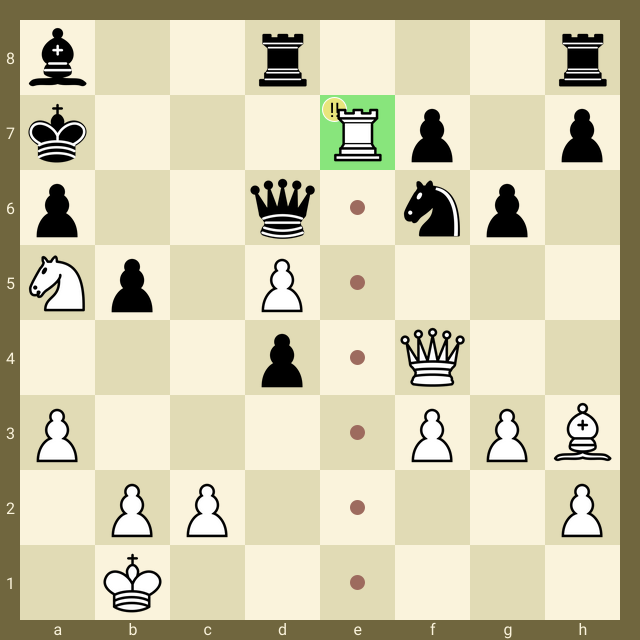
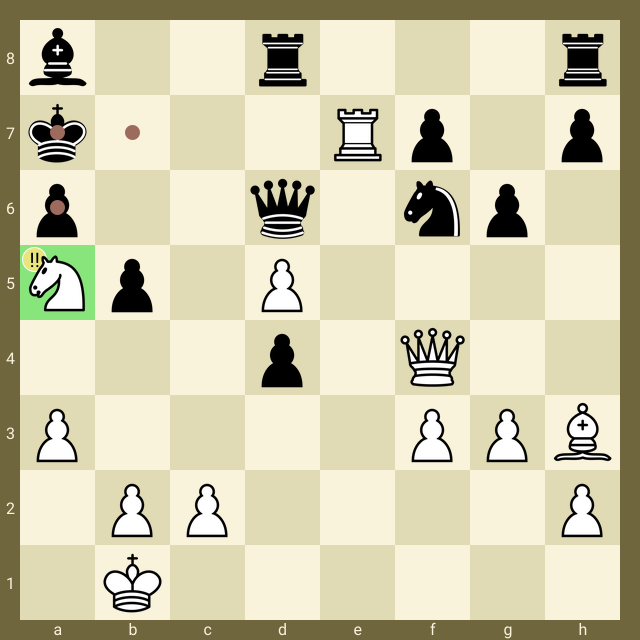
Removed arrow

diff --git a/rendererMoves.go b/rendererMoves.go
@@ -31,60 +31,25 @@ func (r *rendererMoves) renderMove(c *gg.Context, move Move) {
 	c.SetRGBA(toRGBA(style.Color))
 	if dx == 0 || dy == 0 || abs(dx) == abs(dy) {
 		// Render pawn, rook, bishop, king and queen moves
-		r.renderStraightMoves(c, dx, dy, x, y, style)
-	} else {
-		// Render knight moves (and illegal moves)
-		r.renderOtherMoves(c, dx, dy, x, y, style)
-	}
-}
-
-func (r *rendererMoves) renderStraightMoves(c *gg.Context, dx int, dy int, x int, y int, style *MoveStyle) {
-	switch style.Type {
-	case MoveTypeDots:
 		// Rook type move or bishop type move
 		d := max(abs(dx), abs(dy))
-		r.renderDottedMove(c, &x, &y, style, d, sgn(dx), sgn(dy))
-	case MoveTypeArrow:
-		// Not implemented yet
-	}
-}
-
-func (r *rendererMoves) renderOtherMoves(c *gg.Context, dx int, dy int, x int, y int, style *MoveStyle) {
-	switch style.Type {
-	case MoveTypeDots:
-		r.renderOtherMovesDotted(c, dx, dy, x, y, style)
-	case MoveTypeArrow:
-		r.renderOtherMovesArrow(c, dx, dy, x, y, style)
-	}
-}
-
-//
-// Arrow move
-//
-
-func (r *rendererMoves) renderOtherMovesArrow(c *gg.Context, dx int, dy int, x int, y int, style *MoveStyle) {
-
-}
-
-//
-// Dotted move
-//
-
-func (r *rendererMoves) renderOtherMovesDotted(c *gg.Context, dx int, dy int, x int, y int, style *MoveStyle) {
-	// Horse type move (or other weird illegal move)
-	dir := r.getPreferredDirection(dx, dy)
-	if dir {
-		// abs(dx) > abs(dy) ; vertically first, horizontally second
-		r.renderDottedMove(c, &x, &y, style, abs(dy), 0, sgn(dy))
-		r.renderDottedMove(c, &x, &y, style, abs(dx), sgn(dx), 0)
+		r.renderDottedLine(c, &x, &y, sgn(dx), sgn(dy), d, style)
 	} else {
-		// abs(dx) <= abs(dy) ; horizontally first, vertically second
-		r.renderDottedMove(c, &x, &y, style, abs(dx), sgn(dx), 0)
-		r.renderDottedMove(c, &x, &y, style, abs(dy), 0, sgn(dy))
+		// Horse type move (or other weird illegal move)
+		dir := r.getPreferredDirection(dx, dy)
+		if dir {
+			// abs(dx) > abs(dy) ; vertically first, horizontally second
+			r.renderDottedLine(c, &x, &y, 0, sgn(dy), abs(dy), style)
+			r.renderDottedLine(c, &x, &y, sgn(dx), 0, abs(dx), style)
+		} else {
+			// abs(dx) <= abs(dy) ; horizontally first, vertically second
+			r.renderDottedLine(c, &x, &y, sgn(dx), 0, abs(dx), style)
+			r.renderDottedLine(c, &x, &y, 0, sgn(dy), abs(dy), style)
+		}
 	}
 }
 
-func (r *rendererMoves) renderDottedMove(c *gg.Context, x, y *int, style *MoveStyle, moves, dx, dy int) {
+func (r *rendererMoves) renderDottedLine(c *gg.Context, x, y *int, dx, dy, moves int, style *MoveStyle) {
 	for i := 0; i < moves; i++ {
 		r.renderDot(c, *x, *y, style)
 		*x += dx
@@ -106,10 +71,6 @@ func (r *rendererMoves) getPreferredDirection(dx, dy int) bool {
 
 	return true
 }
-
-//
-// Misc
-//
 
 func (r *rendererMoves) getStyle(move Move) *MoveStyle {
 	if move.Style == nil {

diff --git a/fen.go b/fen.go
@@ -7,6 +7,22 @@ import (
 
 const validChars = "pbnrqkPBNRQK12345678"
 
+var letter2Piece = map[rune]chessPiece{
+	'p': BlackPawn,
+	'b': BlackBishop,
+	'n': BlackKnight,
+	'r': BlackRook,
+	'q': BlackQueen,
+	'k': BlackKing,
+	'P': WhitePawn,
+	'B': WhiteBishop,
+	'N': WhiteKnight,
+	'R': WhiteRook,
+	'Q': WhiteQueen,
+	'K': WhiteKing,
+	' ': NoPiece,
+}
+
 func validateFen(fen string) bool {
 	fens := strings.Split(fen, " ")
 	if len(fens) < 6 {
@@ -82,20 +98,4 @@ func normalizeFENRank(fenRank string) string {
 		}
 	}
 	return normalized
-}
-
-var letter2Piece = map[rune]chessPiece{
-	'p': BlackPawn,
-	'b': BlackBishop,
-	'n': BlackKnight,
-	'r': BlackRook,
-	'q': BlackQueen,
-	'k': BlackKing,
-	'P': WhitePawn,
-	'B': WhiteBishop,
-	'N': WhiteKnight,
-	'R': WhiteRook,
-	'Q': WhiteQueen,
-	'K': WhiteKing,
-	' ': NoPiece,
 }

diff --git a/examples/dev.go b/examples/dev.go
@@ -38,7 +38,7 @@ func main() {
 
 	// Highlight the e7 square, annotate e7 as a brilliant move (!!) and
 	// show move e1-e7.
-	ctx.AddHighlightEx("e7", hs).AddAnnotationEx("e7", "!!", as).AddMoveEx("e1", "e7", ms)
+	ctx.AddHighlightEx("a5", hs).AddAnnotationEx("a5", "!!", as).AddMoveEx("b7", "a5", ms)
 
 	// Render the image
 	const fen = "b2r3r/k3Rp1p/p2q1np1/Np1P4/3p1Q2/P4PPB/1PP4P/1K6 b - - 1 25"

diff --git a/constants.go b/constants.go
@@ -54,8 +54,7 @@ const (
 type MoveType int
 
 const (
-	MoveTypeDots  MoveType = iota // Dots from and to
-	MoveTypeArrow                 // Arrow from -> to, NOT IMPLEMENTED YET!
+	MoveTypeDots MoveType = iota // Dots from and to
 )
 
 type HighlightType int
